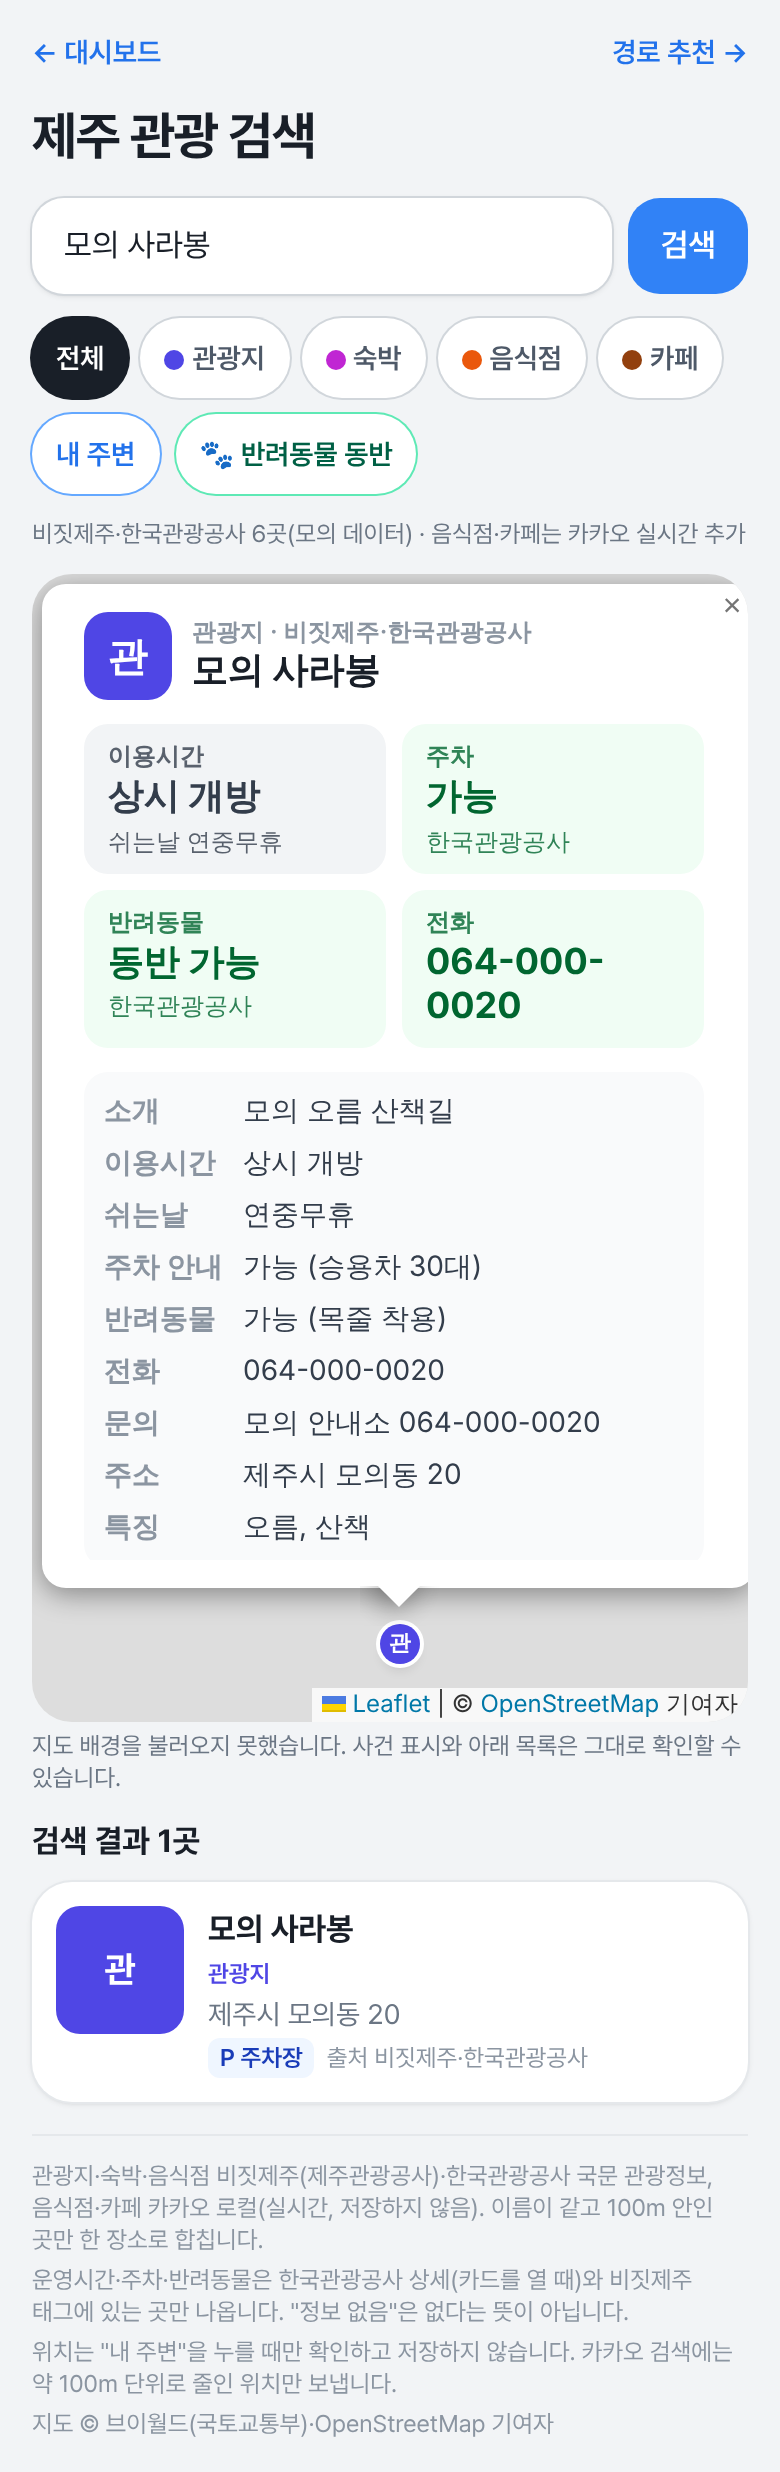
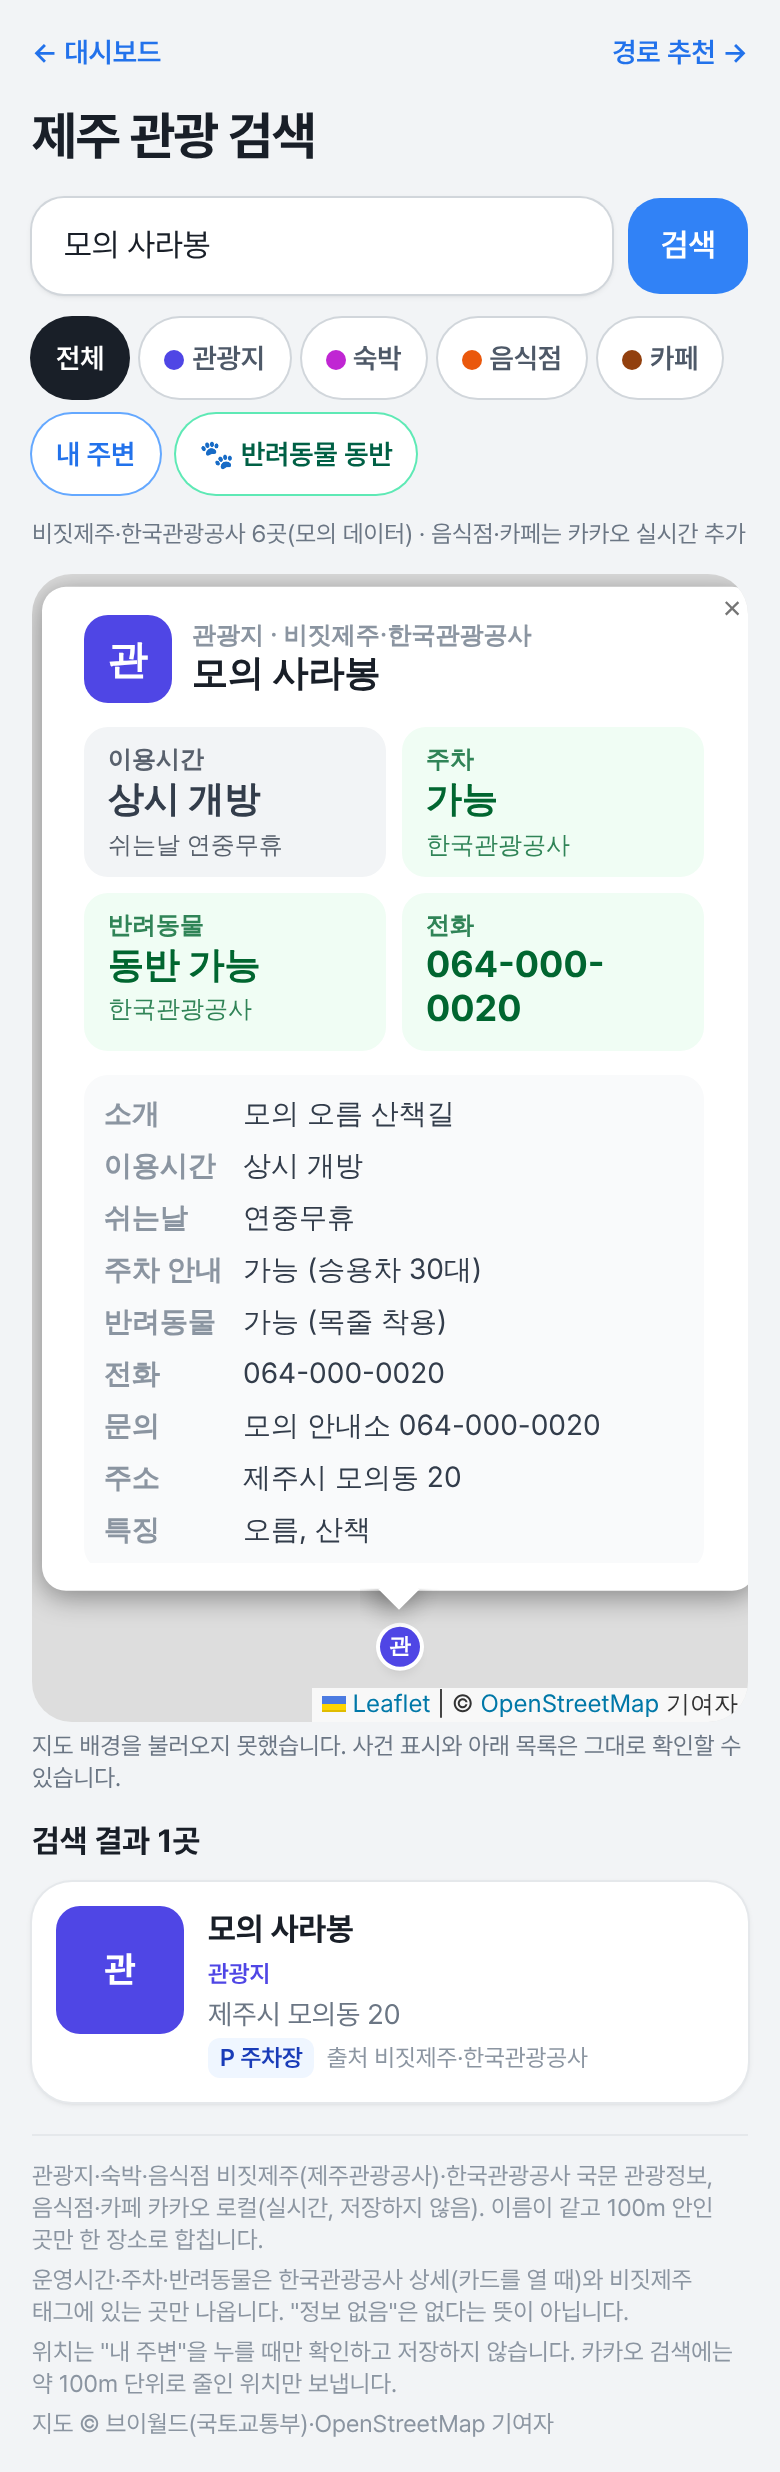
TASK-029 범위 변경 마무리: 시험 결과 반영(관광공사 음식점 소개정보 항목 확인), 큰 칸 글머리표 정리, 카드 단위 테스트, 시험 함수 삭제, 결과 보고
사용자 "범위 변경: TASK-029 운영시간·주차·반려동물 추가"

Claude-Session: https://claude.ai/code/session_01Gur3aDTQeZh8Paf8Wfb4kJ

diff --git a/jeju-ai-traffic/tests/unit/searchCards.test.ts b/jeju-ai-traffic/tests/unit/searchCards.test.ts
@@ -1,0 +1,40 @@
+import { describe, expect, it } from "vitest";
+import type { SearchRow } from "../../shared/contracts/search";
+import { petFromText, placeCard, short } from "../../web/src/features/search/searchCards";
+
+const ROW: SearchRow = ["kto:2755053", "RESTAURANT", "가람돌솥밥", "제주특별자치도 서귀포시 중문관광로 332", 33.2497, 126.4313, "", "", "", "", [["kto", "2755053"]], false, ""];
+const AT = { listBuiltAt: "2026-10-22T23:00:00.000Z", liveAt: null };
+
+describe("관광 검색 상세 카드 (TASK-029 범위 변경)", () => {
+  it("큰 칸 글자: 첫 줄만, 앞의 '- ' 떼기, 길면 줄임", () => {
+    expect(short("- 08:30~21:00\n- 준비시간 16:00~17:00")).toBe("08:30~21:00");
+    expect(short("가".repeat(30), 10)).toBe(`${"가".repeat(9)}…`);
+  });
+
+  it("반려동물 원문: 불가·가능·애매", () => {
+    expect(petFromText("불가")).toBe("bad");
+    expect(petFromText("가능 (소형견)")).toBe("good");
+    expect(petFromText("문의")).toBe("neutral");
+  });
+
+  it("관광공사 상세가 오면 영업시간·쉬는날·주차, 불가능은 불가로", () => {
+    const card = placeCard(ROW, null, AT, null, { id: "2755053", hours: "- 08:30~21:00\n- 마지막 주문 20:00", rest: "연중무휴", parking: "불가능", pet: "", info: "0507-1432-1200", builtAt: AT.listBuiltAt, source: "kto" });
+    expect(card.tiles?.map((t) => [t.label, t.value])).toEqual([
+      ["영업시간", "08:30~21:00"],
+      ["주차", "불가"],
+      ["반려동물", "정보 없음"],
+      ["전화", "정보 없음"],
+    ]);
+    expect(card.tiles?.[0]?.sub).toBe("쉬는날 연중무휴");
+    expect(card.rows.find((r) => r.label === "문의")?.lines).toEqual(["0507-1432-1200"]);
+  });
+
+  it("받는 중·실패·관광공사 자료 없음", () => {
+    expect(placeCard(ROW, null, AT, null, "loading").tiles?.[0]?.value).toBe("확인 중…");
+    expect(placeCard(ROW, null, AT, null, "failed").footer).toContain("불러오지 못했습니다");
+    const vj: SearchRow = ["visitJeju:X", "CAFE", "숲카페", "", 33.5, 126.5, "", "", "", "", [["visitJeju", "X"]], true, "YES"];
+    const card = placeCard(vj, 120, AT, "내 위치");
+    expect(card.tiles?.map((t) => t.value)).toEqual(["정보 없음", "주차장 있음", "동반 가능", "120m"]);
+    expect(card.footer).toContain("운영시간은 한국관광공사 자료가 있는 곳만 나옵니다");
+  });
+});

diff --git a/jeju-ai-traffic/tests/unit/tourSearch.test.ts b/jeju-ai-traffic/tests/unit/tourSearch.test.ts
@@ -73,6 +73,8 @@ describe("관광 통합 검색 출처 어댑터 (TASK-029)", () => {
     expect(normalizeKtoIntro("1", "ATTRACTION", intro({ usetime: "09:00~18:00<br>", restdate: "연중무휴", parking: "가능", chkpet: "불가", infocenter: "064" }))).toEqual({ id: "1", hours: "09:00~18:00", rest: "연중무휴", parking: "가능", pet: "불가", info: "064", source: "kto" });
     expect(normalizeKtoIntro("2", "ACCOMMODATION", intro({ checkintime: "15:00", checkouttime: "11:00", parkinglodging: "가능", infocenterlodging: "064-1" }))).toEqual({ id: "2", hours: "입실 15:00\n퇴실 11:00", rest: "", parking: "가능", pet: "", info: "064-1", source: "kto" });
     expect(normalizeKtoIntro("3", "CAFE", intro({ opentimefood: "10:00~20:00", restdatefood: "화요일", parkingfood: "불가", infocenterfood: "064-2" }))).toEqual({ id: "3", hours: "10:00~20:00", rest: "화요일", parking: "불가", pet: "", info: "064-2", source: "kto" });
+    // 시험 응답 표본(가람돌솥밥)
+    expect(normalizeKtoIntro("2755053", "RESTAURANT", intro({ opentimefood: "- 08:30~21:00<br>- 준비시간 16:00~17:00<br>- 마지막 주문 20:00", restdatefood: "연중무휴", parkingfood: "가능", infocenterfood: "0507-1432-1200" })).hours).toBe("- 08:30~21:00\n- 준비시간 16:00~17:00\n- 마지막 주문 20:00");
     const urls: string[] = [];
     await createKtoDetail("k", (async (u: string) => (urls.push(u), Response.json(intro({ opentimefood: "a" })))) as unknown as typeof fetch).fetchDetail("2850913", "CAFE");
     expect(urls[0]).toContain("/detailIntro2?");

diff --git a/jeju-ai-traffic/api/_lib/providers/tourSearch.ts b/jeju-ai-traffic/api/_lib/providers/tourSearch.ts
@@ -180,7 +180,7 @@ export const ktoTypeOf = (c: SearchCategory) => (c === "CAFE" ? KTO_TYPE.RESTAUR
 /**
  * 소개정보 → 운영시간·쉬는날·주차·반려동물·문의. 항목 이름은 분류마다 다르다:
  * 관광지 usetime·restdate·parking·chkpet·infocenter(TASK-026), 숙박 checkintime·checkouttime·parkinglodging·infocenterlodging(TASK-028 시험),
- * 음식점 opentimefood·restdatefood·parkingfood·infocenterfood.
+ * 음식점 opentimefood·restdatefood·parkingfood·infocenterfood(TASK-029 범위 변경 시험 2건: 카페 "가는곶 세화"·음식점 "가람돌솥밥"으로 확인).
  */
 export function normalizeKtoIntro(id: string, category: SearchCategory, body: unknown): SearchDetail {
   const i = ktoItems(body).list[0] ?? {};

diff --git a/jeju-ai-traffic/reports/TASK-029-RESULT.md b/jeju-ai-traffic/reports/TASK-029-RESULT.md
@@ -3,6 +3,7 @@
 - 보고일: 2026-10-23 / 실행 주체: Claude
 - 승인 근거: 사용자 "계획 승인: TASK-029 1. (a) 2. (a) 3. (a) 4. (a) 5. 승인" (2026-10-22, `DECISIONS.md`)
 - 참고 문서: 사용자 구글 드라이브 `제주_스마트_관광_통합_플랫폼_PRD_v1.0.md` → `docs/`에 사본(이 앱의 확정 원본 `PRD.md`는 그대로)
+- 범위 변경: 사용자 "범위 변경: TASK-029 운영시간·주차·반려동물 추가" (2026-10-23) — 10절
 - 상태: **결과 검토** (완료 승인 대기, main 미반영)
 
 ## 1. 시험 호출 (승인 4건, 4건 사용)
@@ -76,8 +77,8 @@
 ## 5. 테스트·빌드
 | 명령 | 결과 |
 |---|---|
-| `npm run check:release` | 통과 — 단위 **357건**(신규 12), lint·typecheck·build, 비밀정보 의심 없음, 취약점 0건 |
-| `npx playwright test` | **57건** 통과(신규 3, 모의 공급자) |
+| `npm run check:release` | 통과 — 단위 **364건**(신규 19, 범위 변경 포함), lint·typecheck·build, 비밀정보 의심 없음, 취약점 0건 |
+| `npx playwright test` | **57건** 통과(신규 3, 범위 변경 확인 추가, 모의 공급자) |
 
 ## 6. 비용·보안
 - **비용**: 0원.
@@ -97,6 +98,34 @@
 6. **관광공사 상세 링크 없음**: 공개 상세 주소에 쓰는 번호가 목록에 없어, 출처 이름만 보이고 링크는 달지 않았습니다.
 7. **실데이터 확인**: 실기기와 실데이터 확인은 Preview에서 필요합니다.
 
-## 8. 확인 요청
-- Preview에서 대시보드 → **관광 검색** → 검색(예: "성산일출봉", "흑돼지") → 카테고리 → 결과 → 상세 카드, 그리고 **내 주변**을 봐 주세요.
+## 8. 범위 변경: 운영시간·주차·반려동물 (2026-10-23)
+- **근거**: 사용자 질문 두 개("각 관광지, 식당, 카페, 숙박시설에 운영시간, 주차장 정보 표시 가능?", "여기에 반려동물 동반 여부도 표시 가능?")에 이어 "범위 변경: TASK-029 운영시간·주차·반려동물 추가".
+- **시험 호출 2건**(관광공사 음식점 소개정보: 카페 "가는곶 세화", 음식점 "가람돌솥밥"): 모두 정상이었고, 항목 이름도 예상과 같았습니다.
+  - 영업시간 `opentimefood`(줄마다 "- " 붙음), 쉬는날 `restdatefood`, 주차 `parkingfood`("가능"·"불가능"), 문의 `infocenterfood`.
+  - 대표 메뉴(`firstmenu`·`treatmenu`)도 오지만 이번 범위 밖이라 쓰지 않았습니다.
+  - 임시 함수 `api/search-probe.ts`는 결과를 받은 뒤 삭제했습니다(main 제외).
+- **상세 카드 큰 칸 4개**: 운영시간(관광지 이용시간·숙박 입실/퇴실·음식점/카페 영업시간, 아래에 쉬는날), 주차, 반려동물, 거리(또는 전화). 목록 아래에 원문 전체(운영시간·쉬는날·주차 안내·반려동물·문의)를 보입니다.
+- **출처 우선순위**
+  1. 관광공사 소개정보: 카드를 열 때만 받고, 장소마다 서버·CDN 30일 보관합니다. 카페와 음식점은 같은 보관본을 씁니다(`/api/traffic/search?kto=&cat=`).
+  2. 비짓제주 태그: 주차장 태그와 반려동물 태그("애견동반" 등은 가능, "불가"·"금지"가 붙으면 불가). 특징 표시는 8개까지만 남기지만, 이 두 판단은 전체 태그로 합니다.
+  3. 둘 다 없으면 "정보 없음"으로 두고, 카드에 "운영시간은 한국관광공사 자료가 있는 곳만 나옵니다. 아래 링크의 상세에서 확인하세요"라고 안내합니다.
+- **목록·거르기**: 목록 한 줄에 `P 주차장`·`🐾 동반 가능` 표시가 붙습니다. "🐾 반려동물 동반" 거르기는 표시가 있는 곳만 남기고 주소에 `pet=1`을 남깁니다. 결과가 없으면 "표시가 없다고 동반이 안 되는 것은 아니니, 거르기를 끄고 상세에서 확인하세요"라고 안내합니다.
+- **한계**
+  - 운영시간은 관광공사 자료가 있는 곳(약 620곳, 합친 곳 포함)에만 나옵니다. 비짓제주와 카카오에는 운영시간 항목이 없습니다.
+  - 반려동물 정보는 관광공사 관광지 상세의 반려동물 항목(`chkpet`)과 비짓제주 태그뿐입니다. 관광공사 **반려동물 동반여행 API**는 활용신청 전이라 쓰지 않았습니다.
+  - 관광지 `chkpet` 항목은 이번 시험에서 확인하지 않았습니다. 항목이 없으면 "정보 없음"으로 나옵니다.
+- **비용**: 0원입니다. 관광공사 상세는 카드를 열 때만 1건씩, 30일 보관하며 내부 한도는 하루 800건입니다.
+- **변경 파일**
+  - `shared/contracts/search.ts`: 주차·반려동물 태그, 소개정보 응답
+  - `api/_lib/providers/tourSearch.ts`: 반려동물 태그 판단, 관광공사 소개정보 어댑터, 모의 자료
+  - `api/_lib/providers/ktoTour.ts`: 응답 해석 함수 공유
+  - `api/_lib/trafficSearch.ts`: `?kto=` 경로
+  - `shared/rules/placeMerge.ts`: 합칠 때 태그도 합침
+  - `web/src/features/search/*`: 카드 4칸·목록 표시·거르기
+  - `web/src/services/trafficApi.ts`: `fetchSearchDetail`
+  - 테스트: `tests/unit/tourSearch.test.ts`, `tests/unit/searchCards.test.ts`(신규), `tests/e2e/tourSearch.spec.ts`
+  - 캡처: `reports/screenshots/TASK-029-05-kakao-card-390.png`, `README.md`
+
+## 9. 확인 요청
+- Preview에서 대시보드 → **관광 검색** → 검색(예: "성산일출봉", "흑돼지") → 카테고리 → 결과 → 상세 카드(운영시간·주차·반려동물 칸), **🐾 반려동물 동반** 거르기, **내 주변**을 봐 주세요.
 - 괜찮으면 `완료 승인: TASK-029`, Production 반영은 `main 반영`으로 지시해 주세요.

diff --git a/jeju-ai-traffic/TASK_STATUS.md b/jeju-ai-traffic/TASK_STATUS.md
@@ -8,12 +8,12 @@
 | 항목 | 값 |
 |---|---|
 | 현재 TASK | **TASK-029** — 제주 관광 통합 검색 페이지 |
-| 상태 | **진행 중** (사용자 "계획 승인: TASK-029 1. (a) 2. (a) 3. (a) 4. (a) 5. 승인", 2026-10-22 → "범위 변경: TASK-029 운영시간·주차·반려동물 추가", 2026-10-23) |
+| 상태 | **결과 검토** (사용자 "계획 승인: TASK-029 1. (a) 2. (a) 3. (a) 4. (a) 5. 승인", 2026-10-22 → "범위 변경: TASK-029 운영시간·주차·반려동물 추가", 2026-10-23. 완료 승인 대기, main 미반영) |
 | 실행 주체 | Claude (사용자 지정, 2026-10-18) |
 | 승인 범위 | 1.(a) 대시보드 "관광 검색" 카드 → `/search` 페이지(검색창·카테고리 칩·내 주변·지도·결과 목록·상세 카드, 주소에 검색어) 2.(a) 비짓제주·한국관광공사(하루 한 번 서버 보관)·카카오 로컬(실시간, 저장 안 함) 3.(a) 이름 같고 100m 이내만 합침, 출처 모두 표시 4.(a) PRD 운영 기능은 후속 TASK 5. 시험 호출 최대 4건(임시 함수, main 제외). 범위 변경: 상세 카드에 운영시간·주차·반려동물(관광공사 상세는 카드를 열 때, 비짓제주는 태그), 반려동물 거르기, 시험 호출 최대 2건 (`DECISIONS.md` 2026-10-23) |
 | 차단 요인 | 없음 |
 | 결과 보고서 | `reports/TASK-029-RESULT.md` |
-| 다음 행동 | 범위 변경 구현 → 사용자가 Preview에서 `/api/search-probe`를 한 번 열어 결과 전달 |
+| 다음 행동 | 사용자 결과 검토 → `완료 승인: TASK-029` (Production은 `main 반영`) |
 | 최종 갱신 | 2026-10-23 |
 
 ## 상태 정의
@@ -58,4 +58,4 @@
 | TASK-026 | 제주 관광지 정보 (MVP 이후 추가) | **완료** (2026-10-22) | `reports/TASK-026-RESULT.md` |
 | TASK-027 | 관광지 주변 주차장 지도 표시 (MVP 이후 추가) | **완료** (2026-10-22) | `reports/TASK-027-RESULT.md` |
 | TASK-028 | 관광지 주변 숙소 찾기 (MVP 이후 추가) | **완료** (2026-10-22) | `reports/TASK-028-RESULT.md` |
-| TASK-029 | 제주 관광 통합 검색 페이지 (MVP 이후 추가) | **진행 중** | `reports/TASK-029-RESULT.md` |
+| TASK-029 | 제주 관광 통합 검색 페이지 (MVP 이후 추가) | **결과 검토** | `reports/TASK-029-RESULT.md` |

diff --git a/jeju-ai-traffic/DECISIONS.md b/jeju-ai-traffic/DECISIONS.md
@@ -293,3 +293,4 @@
 | 2026-10-23 | TASK-029 | 결과 보고 | (구현 완료) | 진행 중 → 결과 검토 | `/search` 관광 통합 검색(대시보드 "관광 검색" 카드), 비짓제주 c1·c3·c4·관광공사 12·32·39 묶음별 수집(서버 하루·CDN 7일, 부분 결과 10분), 카카오 실시간 음식점·카페(no-store), 이름 같고 100m 안 하나뿐일 때만 합침, 상세 카드(정보 없음·출처·기준 시각·경로 안내·카카오맵 길찾기), 내 주변 3km·위치 실패 시 지역 고르기. 함수 수 그대로. 참고 PRD 사본 `docs/`. `reports/TASK-029-RESULT.md`. main 미반영 |
 | 2026-10-23 | TASK-029 | 결과 검토 중 수정 | (사용자 Preview 캡처) "지도가 안나오는데?" | 결과 검토 | 검색 뒤 지도 높이 class가 바뀌며 React가 Leaflet의 leaflet-container class를 지워 바탕 지도가 깨짐 → 높이는 바깥 상자로, 크기 바뀌면 invalidateSize. 브라우저 테스트 추가. TASK-029 범위 안 수정 |
 | 2026-10-23 | TASK-029 | 범위 변경 | "각 관광지, 식당, 카페, 숙박시설에 운영시간, 주차장 정보 표시 가능?" → "여기에 반려동물 동반 여부도 표시 가능?" → "범위 변경: TASK-029 운영시간·주차·반려동물 추가" | 결과 검토 → 진행 중 | 관광공사 자료가 있는 곳은 카드를 열 때 소개정보(운영시간·쉬는날·주차·관광지 반려동물), 비짓제주는 주차·반려동물 태그, 카카오는 정보 없음+링크. 반려동물 거르기. 시험 호출 최대 2건(임시 함수 `api/search-probe.ts`, main 제외). 관광공사 반려동물 동반여행 API는 활용신청 전이라 제외 |
+| 2026-10-23 | TASK-029 | 시험 호출 결과·결과 보고 | (사용자가 Preview에서 /api/search-probe를 열어 결과 전달) | 진행 중 → 결과 검토 | 2건(승인 2건): 관광공사 음식점 소개정보 항목 opentimefood·restdatefood·parkingfood·infocenterfood 확인(예상과 같음). 상세 카드 큰 칸 운영시간·주차·반려동물, 목록 P 주차장·🐾 동반 가능, 반려동물 거르기(pet=1). 시험 함수 삭제. `reports/TASK-029-RESULT.md` 8절. main 미반영 |

diff --git a/jeju-ai-traffic/tasks/TASK-029.md b/jeju-ai-traffic/tasks/TASK-029.md
@@ -1,6 +1,6 @@
 # TASK-029 — 제주 관광 통합 검색 페이지
 
-- 상태: **진행 중** (범위 변경, 2026-10-23) (사용자 "계획 승인: TASK-029 1. (a) 2. (a) 3. (a) 4. (a) 5. 승인", 2026-10-22)
+- 상태: **결과 검토** (`reports/TASK-029-RESULT.md`) (범위 변경, 2026-10-23) (사용자 "계획 승인: TASK-029 1. (a) 2. (a) 3. (a) 4. (a) 5. 승인", 2026-10-22)
 - 근거: 사용자 "다음은 관광지 검색 페이지를 따로 만들고 싶어. 구글드라이브에 제주_스마트_관광_통합_플랫폼_PRD_v1.0.md 파일에 만들고 싶은 내용 있어"
 - 참고 문서: `docs/제주_스마트_관광_통합_플랫폼_PRD_v1.0.md`(사용자 구글 드라이브 사본, 참고용. 이 앱의 확정 원본은 `PRD.md` 그대로)
 - 범위 변경: 사용자 "각 관광지, 식당, 카페, 숙박시설에 운영시간, 주차장 정보 표시 가능?" → "여기에 반려동물 동반 여부도 표시 가능?" → "범위 변경: TASK-029 운영시간·주차·반려동물 추가" (2026-10-23)
